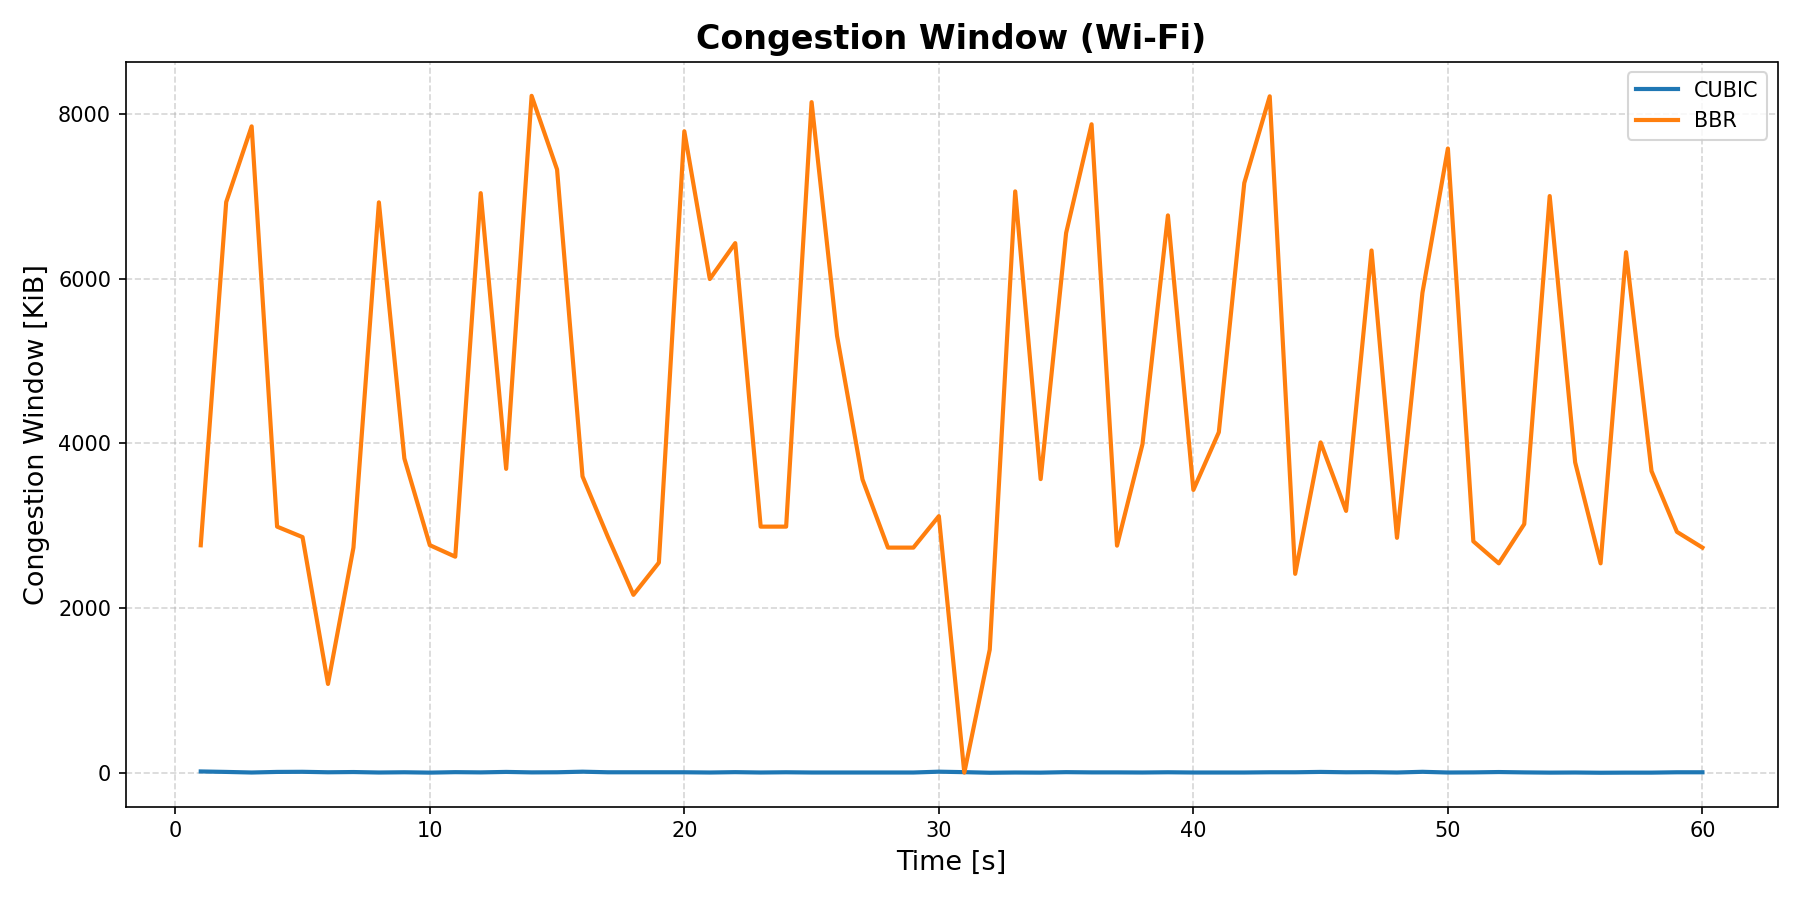
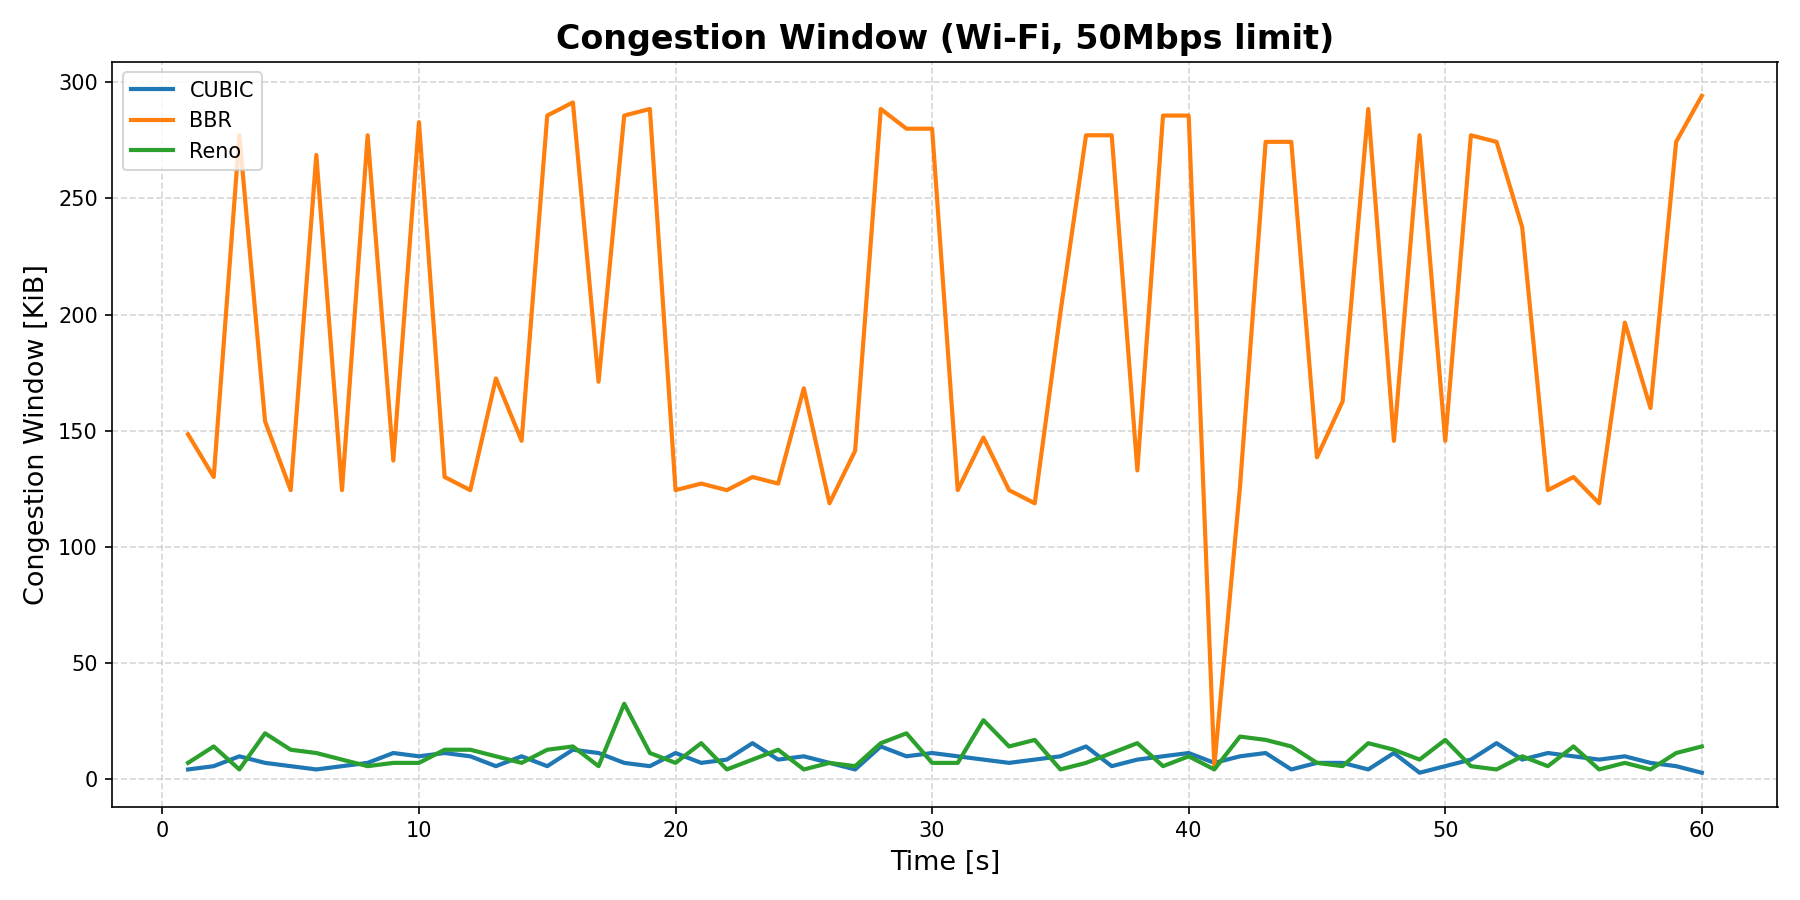
Added bandwidth limits to scenarios

diff --git a/scripts/plots/plot_cwnd_json.py b/scripts/plots/plot_cwnd_json.py
@@ -17,32 +17,33 @@ def load_json(path: Path) -> dict:
 def extract_cwnd_series(path: Path) -> Tuple[List[float], List[float]]:
     data = load_json(path)
 
-    if "intervals" not in data:
-        raise ValueError(f"{path}: missing 'intervals' in JSON")
+    intervals = data.get("intervals")
+    if not intervals:
+        raise ValueError(f"{path}: missing or empty 'intervals'")
 
     times: List[float] = []
     cwnd_kib: List[float] = []
 
-    for idx, interval in enumerate(data["intervals"]):
+    for idx, interval in enumerate(intervals):
         streams = interval.get("streams", [])
         if not streams:
             continue
 
-        stream0 = streams[0]
+        stream = streams[0]
 
-        if "snd_cwnd" not in stream0:
+        if "snd_cwnd" not in stream:
             raise ValueError(
-                f"{path}: missing 'snd_cwnd' in interval {idx}. "
-                "This iperf3 JSON does not appear to contain CWND samples."
+                f"{path}: interval {idx} has no 'snd_cwnd'. "
+                "This JSON does not contain congestion-window samples."
             )
 
-        end_time = stream0.get("end")
+        end_time = stream.get("end")
         if end_time is None:
             end_time = interval.get("sum", {}).get("end")
         if end_time is None:
-            raise ValueError(f"{path}: missing interval end time at interval {idx}")
+            raise ValueError(f"{path}: interval {idx} has no end time")
 
-        cwnd_bytes = stream0["snd_cwnd"]
+        cwnd_bytes = stream["snd_cwnd"]
 
         times.append(float(end_time))
         cwnd_kib.append(float(cwnd_bytes) / 1024.0)
@@ -53,26 +54,52 @@ def extract_cwnd_series(path: Path) -> Tuple[List[float], List[float]]:
     return times, cwnd_kib
 
 
+def parse_series_args(args: List[str]) -> List[Tuple[str, Path]]:
+    if len(args) < 2 or len(args) % 2 != 0:
+        raise ValueError(
+            "You must provide one or more <label> <file.json> pairs."
+        )
+
+    pairs: List[Tuple[str, Path]] = []
+    for i in range(0, len(args), 2):
+        label = args[i]
+        path = Path(args[i + 1])
+        pairs.append((label, path))
+
+    return pairs
+
+
 def main() -> None:
-    if len(sys.argv) != 5:
+    if len(sys.argv) < 5:
         print(
             "Usage:\n"
-            "  python plot_cwnd_json.py "
-            "\"<title>\" <output_file.png> <cubic.json> <bbr.json>"
+            "  python3 plot_cwnd_json.py "
+            "\"<title>\" <output_file.png> "
+            "<label1> <file1.json> [<label2> <file2.json> ...]"
         )
         sys.exit(1)
 
     title = sys.argv[1]
     output_file = Path(sys.argv[2])
-    cubic_json = Path(sys.argv[3])
-    bbr_json = Path(sys.argv[4])
 
-    t_cubic, cwnd_cubic = extract_cwnd_series(cubic_json)
-    t_bbr, cwnd_bbr = extract_cwnd_series(bbr_json)
+    if output_file.suffix.lower() not in {
+        ".png", ".pdf", ".svg", ".jpg", ".jpeg", ".webp"
+    }:
+        raise ValueError(
+            f"Output file must be an image format, got: {output_file}"
+        )
+
+    series = parse_series_args(sys.argv[3:])
 
     plt.figure(figsize=(12, 6))
-    plt.plot(t_cubic, cwnd_cubic, linewidth=2, label="CUBIC")
-    plt.plot(t_bbr, cwnd_bbr, linewidth=2, label="BBR")
+
+    for label, json_path in series:
+        times, cwnd_kib = extract_cwnd_series(json_path)
+        plt.plot(times, cwnd_kib, linewidth=2, label=label)
+        print(
+            f"{label}: min CWND = {min(cwnd_kib):.3f} KiB, "
+            f"max CWND = {max(cwnd_kib):.3f} KiB"
+        )
 
     plt.title(title, fontsize=16, weight="bold")
     plt.xlabel("Time [s]", fontsize=13)

diff --git a/scripts/plots/plot_throughput_json.py b/scripts/plots/plot_throughput_json.py
@@ -15,16 +15,6 @@ def load_json(path: Path) -> dict:
 
 
 def extract_throughput_series(path: Path) -> Tuple[List[float], List[float]]:
-    """
-    Extract per-interval throughput from iperf3 JSON output.
-
-    Expected source:
-        intervals[i]["streams"][0]["bits_per_second"]
-
-    Returns:
-        times       -> interval end times in seconds
-        throughput  -> throughput in Mbps
-    """
     data = load_json(path)
 
     intervals = data.get("intervals")
@@ -62,26 +52,50 @@ def extract_throughput_series(path: Path) -> Tuple[List[float], List[float]]:
     return times, throughput_mbps
 
 
+def parse_series_args(args: List[str]) -> List[Tuple[str, Path]]:
+    if len(args) < 2 or len(args) % 2 != 0:
+        raise ValueError(
+            "You must provide one or more <label> <file.json> pairs."
+        )
+
+    pairs: List[Tuple[str, Path]] = []
+    for i in range(0, len(args), 2):
+        label = args[i]
+        path = Path(args[i + 1])
+        pairs.append((label, path))
+
+    return pairs
+
+
 def main() -> None:
-    if len(sys.argv) != 5:
+    if len(sys.argv) < 5:
         print(
             "Usage:\n"
             "  python3 plot_throughput_json.py "
-            "\"<title>\" <output_file.png> <cubic.json> <bbr.json>"
+            "\"<title>\" <output_file.png> "
+            "<label1> <file1.json> [<label2> <file2.json> ...]"
         )
         sys.exit(1)
 
     title = sys.argv[1]
     output_file = Path(sys.argv[2])
-    cubic_json = Path(sys.argv[3])
-    bbr_json = Path(sys.argv[4])
 
-    t_cubic, thr_cubic = extract_throughput_series(cubic_json)
-    t_bbr, thr_bbr = extract_throughput_series(bbr_json)
+    if output_file.suffix.lower() not in {
+        ".png", ".pdf", ".svg", ".jpg", ".jpeg", ".webp"
+    }:
+        raise ValueError(
+            f"Output file must be an image format, got: {output_file}"
+        )
+
+    series = parse_series_args(sys.argv[3:])
 
     plt.figure(figsize=(12, 6))
-    plt.plot(t_cubic, thr_cubic, linewidth=2, label="CUBIC")
-    plt.plot(t_bbr, thr_bbr, linewidth=2, label="BBR")
+
+    for label, json_path in series:
+        times, throughput_mbps = extract_throughput_series(json_path)
+        plt.plot(times, throughput_mbps, linewidth=2, label=label)
+        avg = sum(throughput_mbps) / len(throughput_mbps)
+        print(f"{label}: average throughput = {avg:.3f} Mbps")
 
     plt.title(title, fontsize=18, weight="bold")
     plt.xlabel("Time [s]", fontsize=12)
@@ -93,13 +107,6 @@ def main() -> None:
     output_file.parent.mkdir(parents=True, exist_ok=True)
     plt.savefig(output_file, dpi=150)
     print(f"Saved plot to {output_file}")
-
-    print(
-        f"CUBIC average throughput: {sum(thr_cubic) / len(thr_cubic):.3f} Mbps"
-    )
-    print(
-        f"BBR average throughput:   {sum(thr_bbr) / len(thr_bbr):.3f} Mbps"
-    )
 
 
 if __name__ == "__main__":
